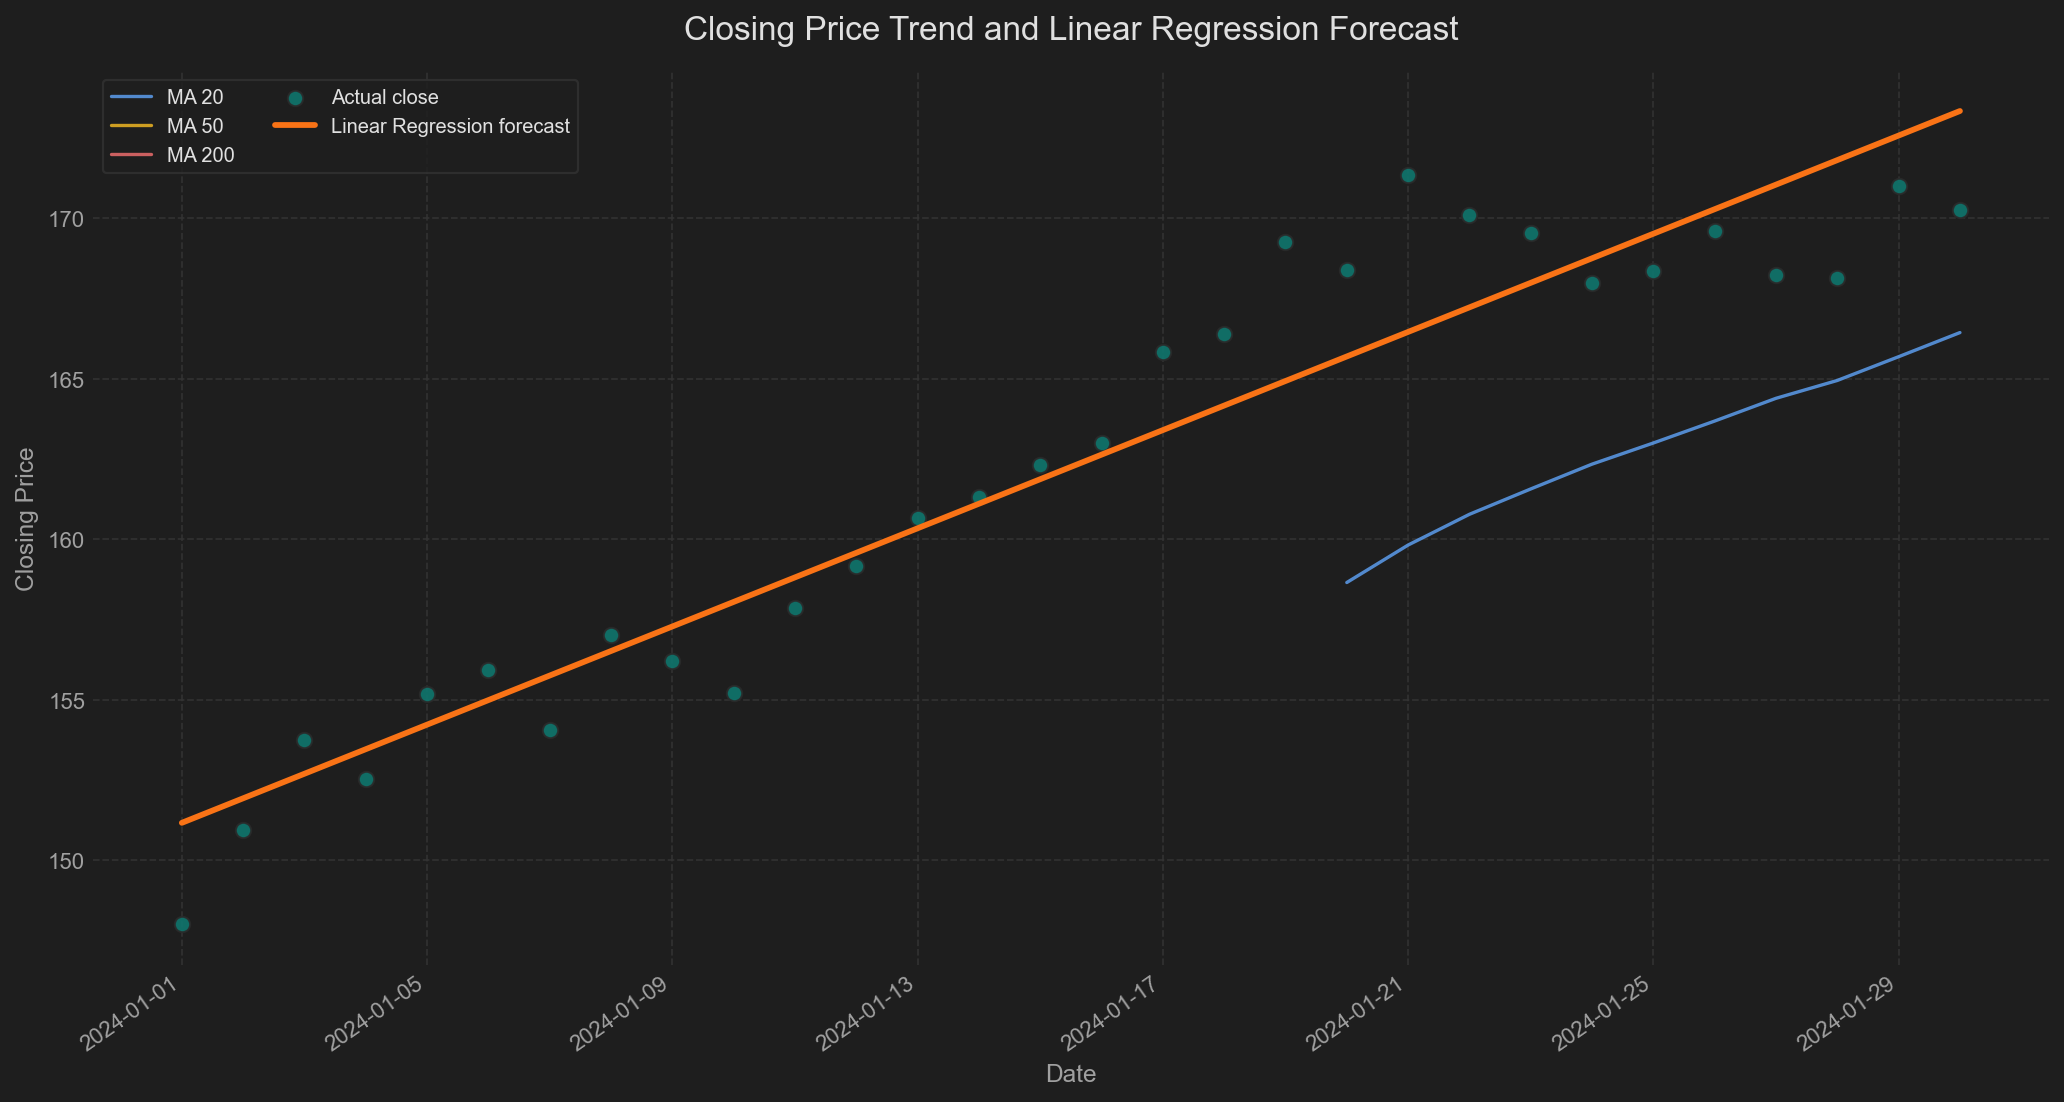
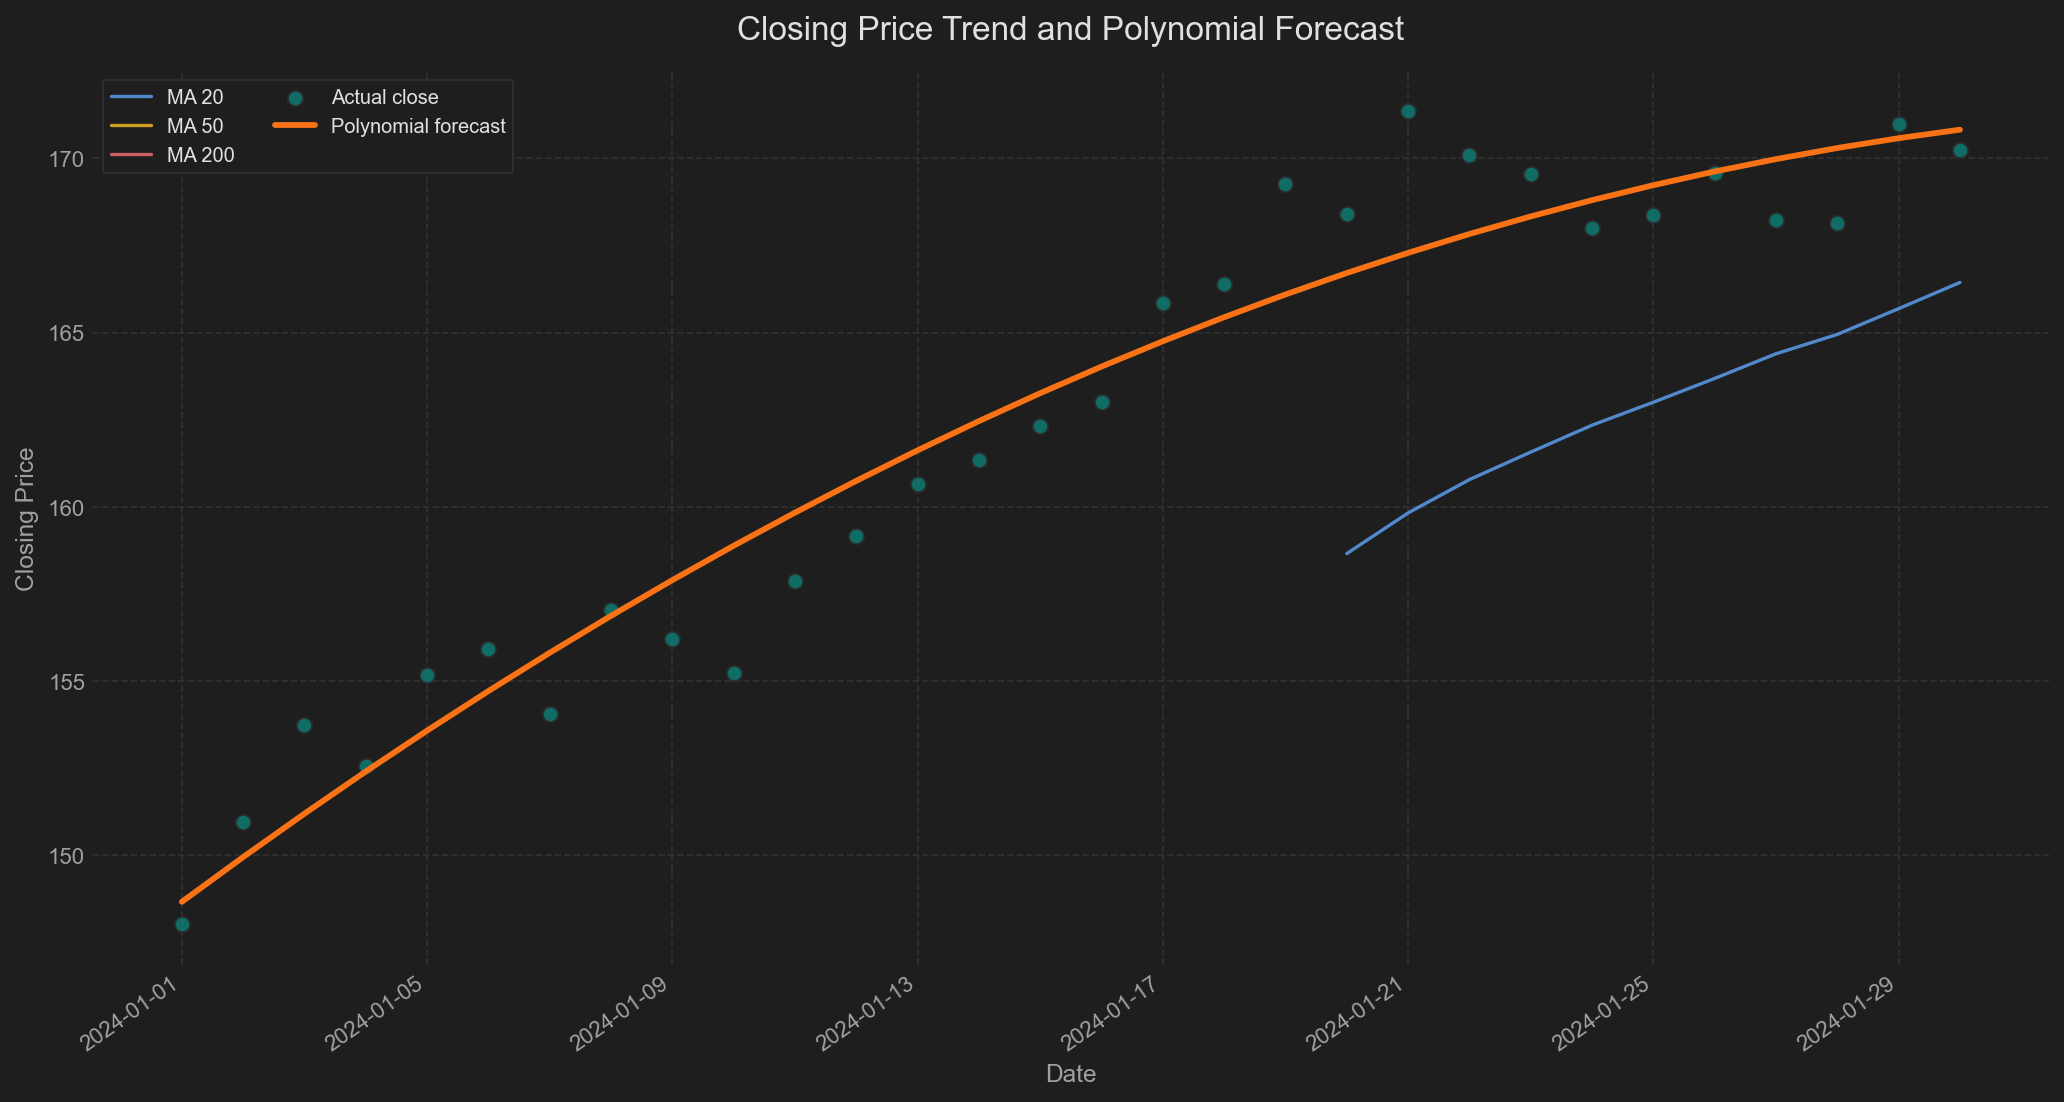
add frontend interface for stock prediction and model selection

diff --git a/templates/index.html b/templates/index.html
@@ -24,6 +24,11 @@
                     <p class="lead">
                         Use a CSV or Excel file to generate a simple prediction chart.
                     </p>
+                    {% if error %}
+                    <div style="background: rgba(239, 68, 68, 0.1); color: #ef4444; border: 1px solid rgba(239, 68, 68, 0.2); padding: 1rem; border-radius: 6px; margin-top: 1rem; text-align: left;">
+                        <strong>Error:</strong> {{ error }}
+                    </div>
+                    {% endif %}
                 </header>
 
                 <form class="upload-form" method="POST" enctype="multipart/form-data">
@@ -70,14 +75,11 @@
                                     <li class="custom-select__option selected" role="option" data-value="Linear Regression" data-type="Supervised">
                                         <span class="option-icon">📈</span> Linear Regression
                                     </li>
-                                    <li class="custom-select__option" role="option" data-value="Decision Tree" data-type="Supervised">
-                                        <span class="option-icon">🌿</span> Decision Tree Regressor
+                                    <li class="custom-select__option" role="option" data-value="Multiple Regression" data-type="Supervised">
+                                        <span class="option-icon">📊</span> Multiple Regression
                                     </li>
-                                    <li class="custom-select__option" role="option" data-value="Random Forest" data-type="Supervised">
-                                        <span class="option-icon">🌲</span> Random Forest Regressor
-                                    </li>
-                                    <li class="custom-select__option" role="option" data-value="XGBoost" data-type="Supervised">
-                                        <span class="option-icon">⚡</span> XGBoost Regressor
+                                    <li class="custom-select__option" role="option" data-value="Polynomial" data-type="Supervised">
+                                        <span class="option-icon">📉</span> Polynomial Regression
                                     </li>
                                     <li class="custom-select__option" role="option" data-value="K-Means" data-type="Unsupervised" style="display: none;">
                                         <span class="option-icon">💠</span> K-Means Clustering

diff --git a/model.py b/model.py
@@ -24,10 +24,18 @@ def run_model(filepath, model_type="Linear Regression", start_date=None, end_dat
     # Feature selection logic
     features = ["Days"]
     if model_type == "Multiple Regression":
-        features = ["Days", "MA_20", "MA_50"]
+        features = ["Days"]
+        if data["MA_20"].notna().sum() >= 2:
+            features.append("MA_20")
+        if data["MA_50"].notna().sum() >= 2:
+            features.append("MA_50")
+        
         data_filtered = data.dropna(subset=features)
-        if len(data_filtered) < 2:
-            raise ValueError("Not enough data points for Multiple Regression after calculating indicators.")
+        if len(features) == 1 or len(data_filtered) < 2:
+            # Fall back to just Days if we don't even have MA_20 data
+            features = ["Days"]
+            data_filtered = data.dropna(subset=features)
+            
         X, y = data_filtered[features], data_filtered["Close"]
         plot_dates = data_filtered["Date"]
     else:
